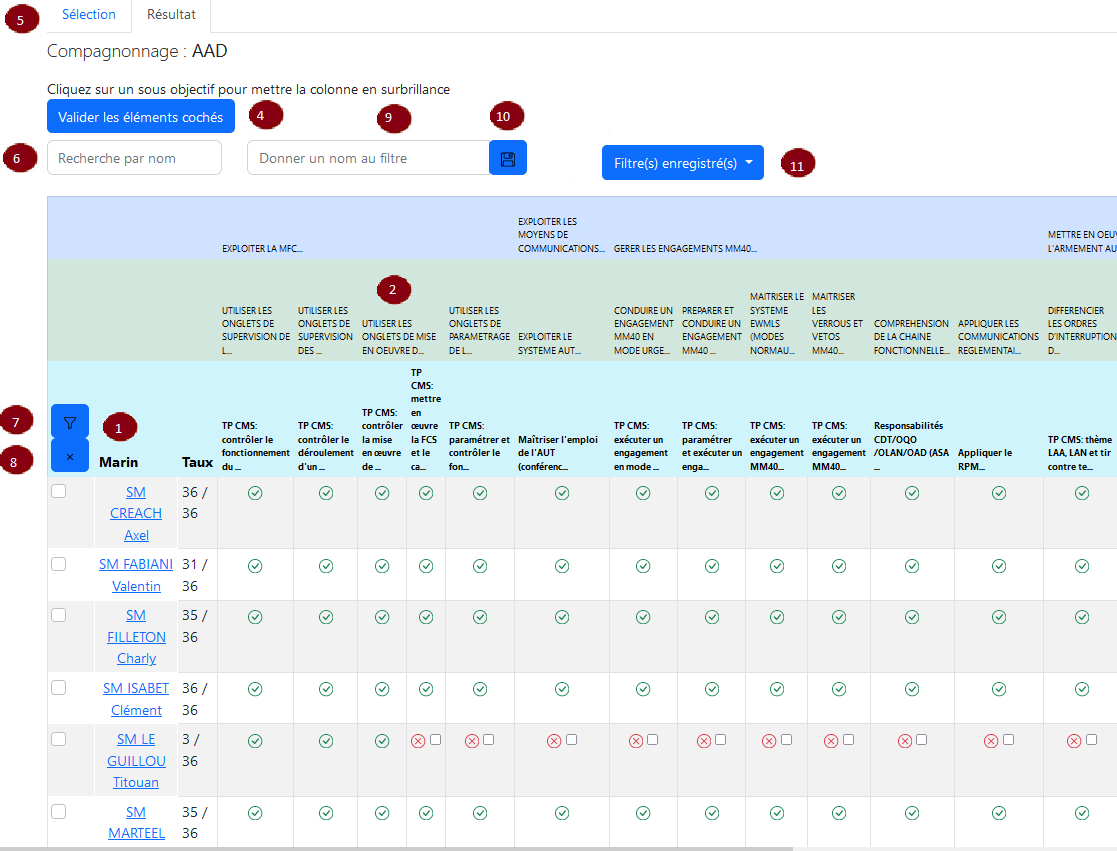
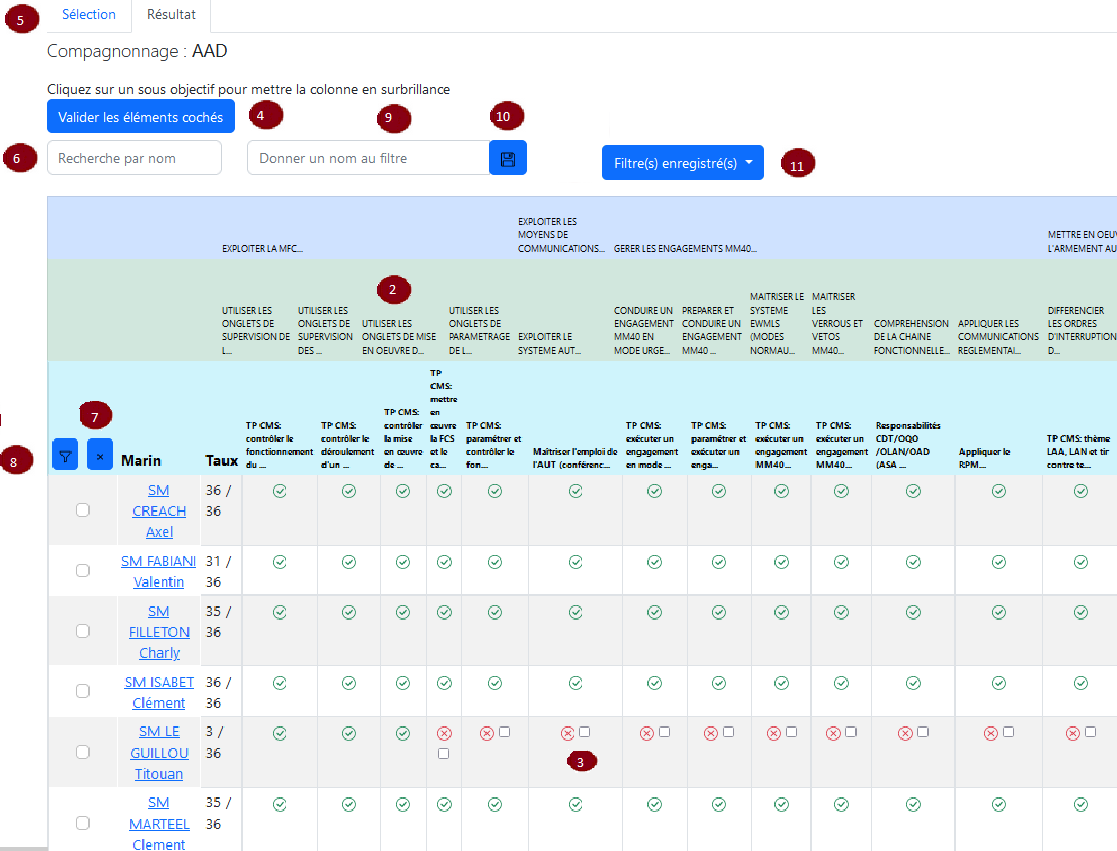
doc, ihm, erreur

diff --git a/Modules/Transformation/Resources/views/livewire/etat-comp-users.blade.php b/Modules/Transformation/Resources/views/livewire/etat-comp-users.blade.php
@@ -119,11 +119,11 @@
             <tr class="table-info">
                 <th style="position: sticky; left: 0px; z-index: 1;">
                     <div style="display: flex; align-items: center; justify-content: center;">
-                        <button class="btn btn-primary sticky-top" style="margin-right: 10px;" x-on:click="filter" title="filtre">
+                        <button class="btn btn-primary sticky-top" style="margin-right: 10px; padding:5px" x-on:click="filter" title="Filtrer">
                             <img src="{!! asset('assets/images/funnel.svg') !!}" alt="">
                         </button>
             
-                        <button class="btn btn-primary sticky-top" x-on:click="reinitialiser" title="réinitialiser le filtre des marins">
+                        <button class="btn btn-primary sticky-top" x-on:click="reinitialiser" title="Réinitialiser le filtre" style="padding:5px">
                             <img src="{!! asset('assets/images/x.svg') !!}" alt="">
                         </button>
                     </div>

diff --git a/Modules/Transformation/Http/Livewire/EtatCompUsers.php b/Modules/Transformation/Http/Livewire/EtatCompUsers.php
@@ -135,10 +135,17 @@ class EtatCompUsers extends Component
     }
 
     public function showMarinFiltrer($marinSelectionnes){
-        $listUsers = [];
-        $listUsers = User::whereIn('id', $marinSelectionnes)->get();
-        $this->listusers = $listUsers;
-        $this->render();
+        if(sizeof($marinSelectionnes) > 0){
+            $listUsers = [];
+            $listUsers = User::whereIn('id', $marinSelectionnes)->get();
+            $this->listusers = $listUsers;
+            $this->render();
+        }
+        else{
+            $this->listusers = null;
+            $this->erreur = "il faut selectionner au moins un marin";
+            $this->render();
+        }
     }
 
     public function reinitialiser(){
